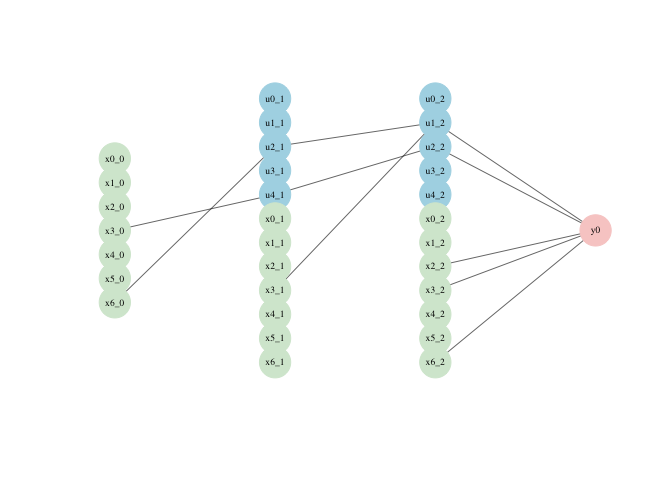
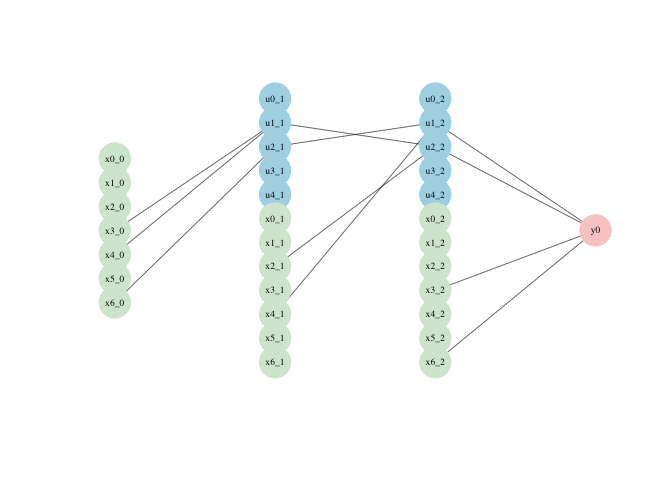
version 0.1.4

diff --git a/README.md b/README.md
@@ -45,7 +45,8 @@ library(torch)
 #the get_dataloaders function takes a data.frame dataset as input, then splits the data
 #in a training and validation set based on train_proportion, and returns torch dataloader 
 #objects.
-loaders <- get_dataloaders(Raisin_Dataset,train_proportion = 0.8,train_batch_size = 720,test_batch_size = 180)
+loaders <- get_dataloaders(raisin_dataset, train_proportion = 0.8, 
+                           train_batch_size = 720, test_batch_size = 180)
 train_loader <- loaders$train_loader
 test_loader <- loaders$test_loader
 ```
@@ -67,10 +68,10 @@ initialization of the inclusion parameters.
 
 ``` r
 problem <- 'binary classification'
-sizes <- c(7,5,5,1) #7 input variables, one hidden layer of 100 neurons, 1 output neuron.
-inclusion_priors <-c(0.5,0.5,0.5) #one prior probability per weight matrix.
-stds <- c(1,1,1) #prior standard deviation for each layer.
-inclusion_inits <- matrix(rep(c(-10,15),3),nrow = 2,ncol = 3) #one low and high for each layer
+sizes <- c(7, 5, 5, 1) #7 input variables, one hidden layer of 100 neurons, 1 output neuron.
+inclusion_priors <-c(0.5, 0.5, 0.5) #one prior probability per weight matrix.
+stds <- c(1, 1, 1) #prior standard deviation for each layer.
+inclusion_inits <- matrix(rep(c(-10, 15), 3),nrow = 2, ncol = 3) #one low and high for each layer
 device <- 'cpu' #can also be mps or gpu.
 ```
 
@@ -93,7 +94,7 @@ as arguments:
 
 ``` r
 #model_input_skip$local_explanation = TRUE #to make sure we are using RELU
-results_input_skip <- suppressMessages(train_lbbnn(epochs = 800,LBBNN = model_input_skip, lr = 0.005,train_dl = train_loader,device = device))
+results_input_skip <- suppressMessages(train_lbbnn(epochs = 800,LBBNN = model_input_skip, lr = 0.01,train_dl = train_loader,device = device))
 #save the model 
 #torch::torch_save(model_input_skip$state_dict(), 
 #paste(getwd(),'/R/saved_models/README_input_skip_example_model.pth',sep = ''))
@@ -106,16 +107,16 @@ averaging, and the validation data as input.
 ``` r
 validate_lbbnn(LBBNN = model_input_skip,num_samples = 100,test_dl = test_loader,device)
 #> $accuracy_full_model
-#> [1] 0.8722222
-#> 
-#> $accuracy_sparse
 #> [1] 0.8666667
 #> 
+#> $accuracy_sparse
+#> [1] 0.8888889
+#> 
 #> $density
-#> [1] 0.2523364
+#> [1] 0.1308411
 #> 
 #> $density_active_path
-#> [1] 0.09345794
+#> [1] 0.1028037
 #validate_lbbnn(LBBNN = model_flows,num_samples = 1000,test_dl = test_loader,device)
 ```
 
@@ -127,8 +128,7 @@ plot(model_input_skip,type = 'global',vertex_size = 13,edge_width = 0.6,label_si
 
 <img src="man/figures/README-unnamed-chunk-6-1.png" width="100%" />
 
-Note that only 3 of the 7 input variables are used, where one of them
-only has a linear connection.
+Note that only 4 of the 7 input variables are used.
 
 This can also be seen using the summary function:
 
@@ -143,14 +143,14 @@ summary(model_input_skip)
 #> The final column shows the average inclusion probability across all layers
 #> -----------------------------------
 #>    L0 L1 L2    a0    a1    a2 a_avg
-#> x0  0  0  0 0.175 0.219 0.006 0.180
-#> x1  0  0  0 0.343 0.109 0.005 0.206
-#> x2  0  0  1 0.135 0.344 0.863 0.296
-#> x3  1  1  1 0.539 0.330 0.991 0.485
-#> x4  0  0  0 0.321 0.575 0.124 0.419
-#> x5  0  0  0 0.098 0.438 0.137 0.256
-#> x6  1  0  1 0.300 0.244 0.997 0.338
-#> The model took 10.772 seconds to train, using cpu
+#> x0  0  0  0 0.138 0.069 0.036 0.097
+#> x1  0  0  0 0.326 0.059 0.152 0.189
+#> x2  0  1  0 0.077 0.335 0.079 0.195
+#> x3  1  0  1 0.427 0.267 0.994 0.406
+#> x4  1  1  0 0.327 0.351 0.058 0.313
+#> x5  0  0  0 0.143 0.250 0.218 0.198
+#> x6  1  0  1 0.232 0.202 0.986 0.287
+#> The model took 10.89 seconds to train, using cpu
 ```
 
 The user can also plot local explanations for each input variable
@@ -169,22 +169,22 @@ Compute residuals: y_true - y_predicted
 
 ``` r
 residuals(model_input_skip)[1:10]
-#>  [1] -0.47491318  0.46904647 -0.14563666  0.40983611 -0.05854724  0.19214028
-#>  [7] -0.08140449 -0.28510988 -0.12890983 -0.04447413
+#>  [1] -0.42256758  0.25760156 -0.06397691  0.41818994 -0.04891150  0.37335026
+#>  [7] -0.07111212 -0.06033467 -0.12792712 -0.03229851
 ```
 
 Get local explanations from some training data:
 
 ``` r
 coef(model_input_skip,dataset = train_loader,inds = c(2,3,4,5,6))
-#>         lower       mean      upper
-#> x0  0.0000000  0.0000000  0.0000000
-#> x1  0.0000000  0.0000000  0.0000000
-#> x2 -0.1718342 -0.1708280 -0.1694423
-#> x3 -0.6384742 -0.6348897 -0.6288301
-#> x4  0.0000000  0.0000000  0.0000000
-#> x5  0.0000000  0.0000000  0.0000000
-#> x6 -2.2649529 -2.2543384 -2.2471136
+#>         lower        mean      upper
+#> x0  0.0000000  0.00000000  0.0000000
+#> x1  0.0000000  0.00000000  0.0000000
+#> x2 -1.1450108 -0.85363343 -0.1005854
+#> x3 -2.7260612 -1.36945037 -0.4463915
+#> x4 -0.7780398 -0.04011143  0.8547966
+#> x5  0.0000000  0.00000000  0.0000000
+#> x6 -2.4800578 -1.11293317 -0.5610269
 ```
 
 Get predictions from the posterior:

diff --git a/NEWS.md b/NEWS.md
@@ -11,4 +11,8 @@
 * Changed some function names to be consistent with CRAN guidelines.
 * Removed export of function that is only used internally.
 * Changed assignment operator to be consistent everywhere. 
-* Removed datasets not used in RJ article submission. 
+* Removed datasets not used in RJ article submission.
+
+# LBBNN 0.1.4 (minor bug fix)
+* Added relu to input-skip layers. Updated experiments.
+
